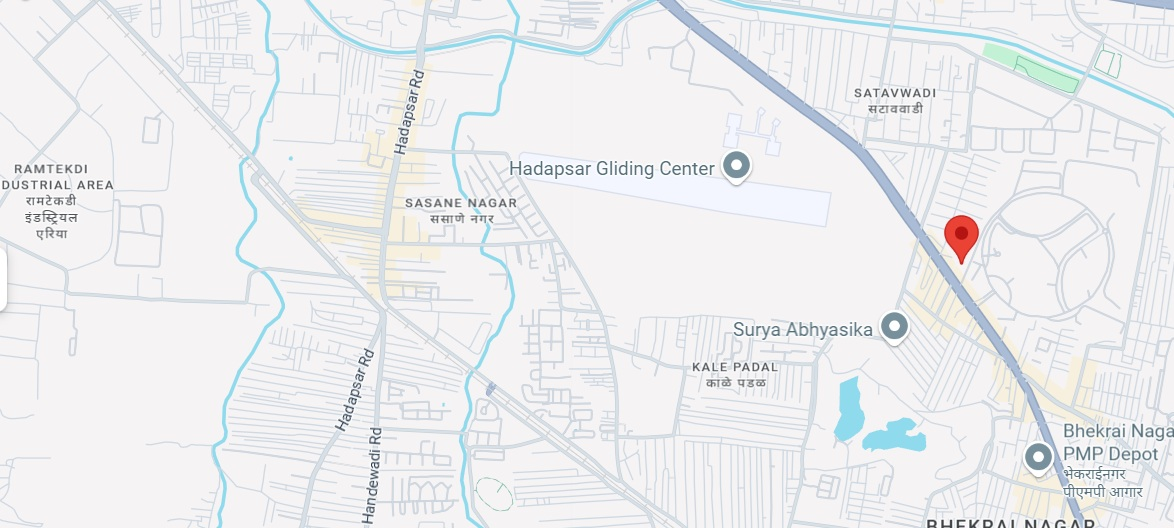
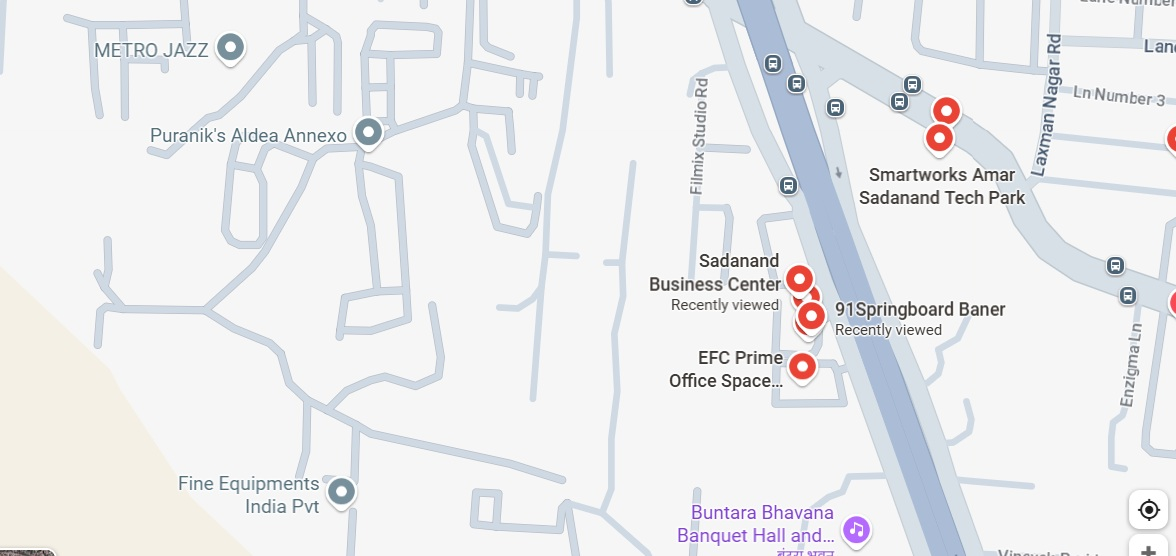
Map Modified

diff --git a/pages/contact.html b/pages/contact.html
@@ -93,7 +93,7 @@
                         </div>
                         <div class="pt-sm-5 pt-4">
                             <a type="button" class="btn btn-danger accent-button ps-4 pe-4" target="_blank"
-                                href="https://maps.app.goo.gl/Fbk8w9eEYEb5uYWS8">Need
+                                href="https://maps.app.goo.gl/yj4aSVJPBLVwPxXD7">Need
                                 Directions?</a>
                         </div>
                     </div>
